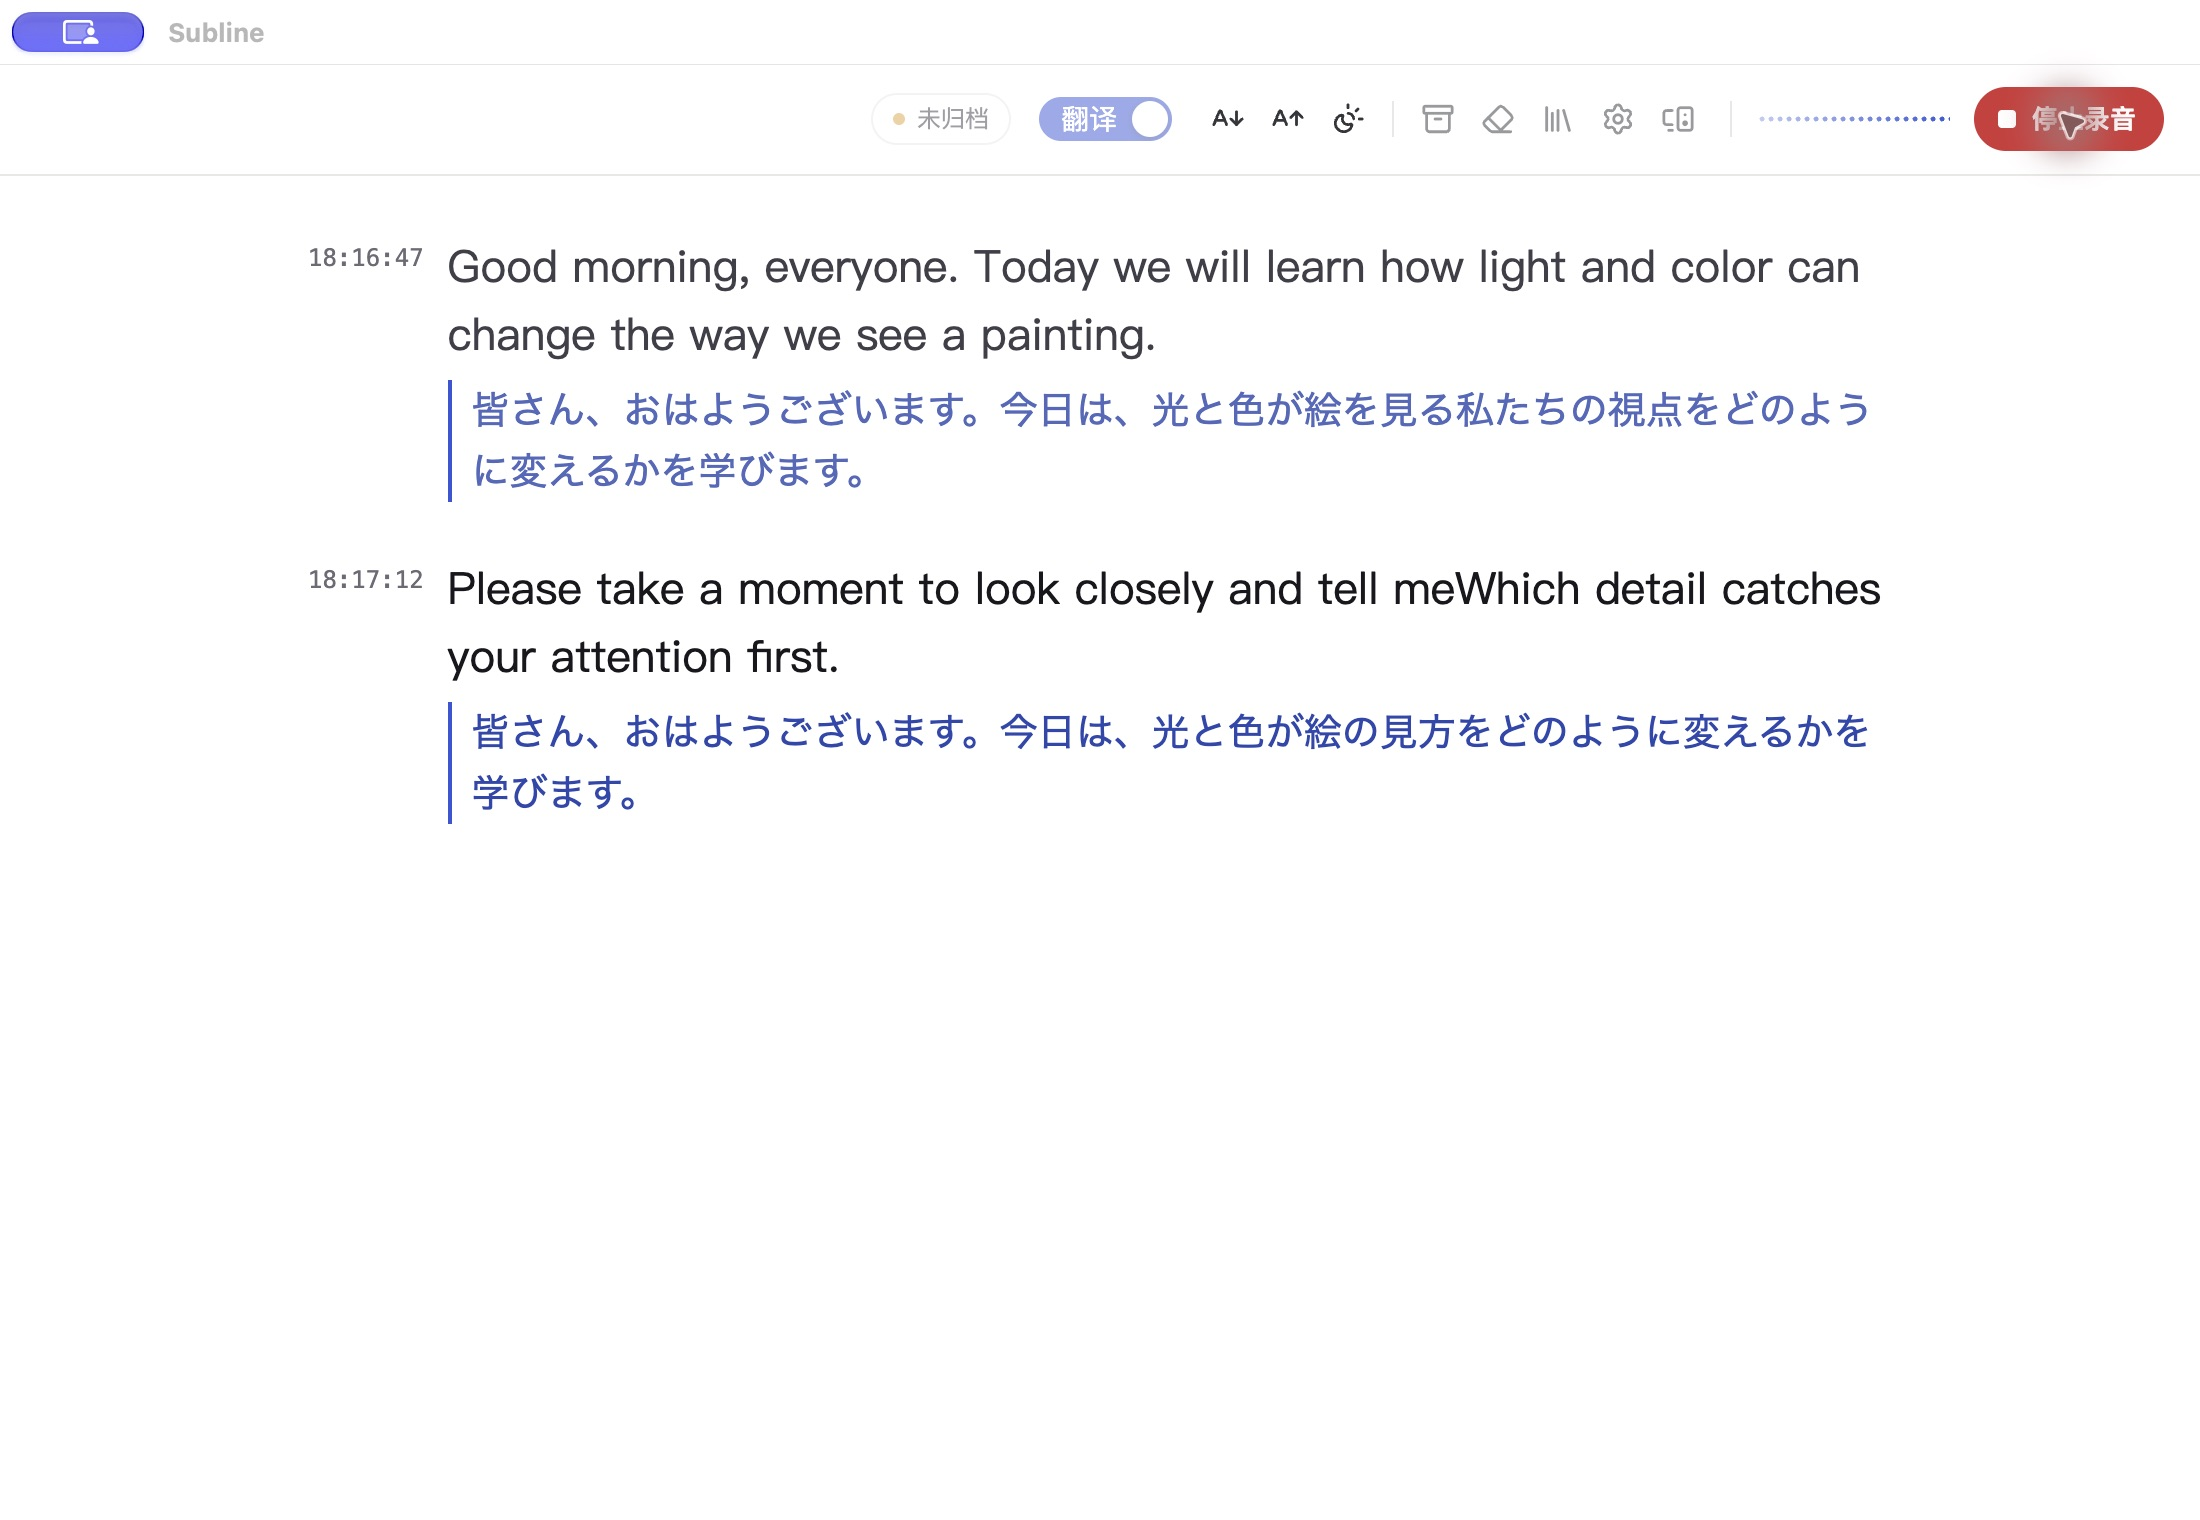
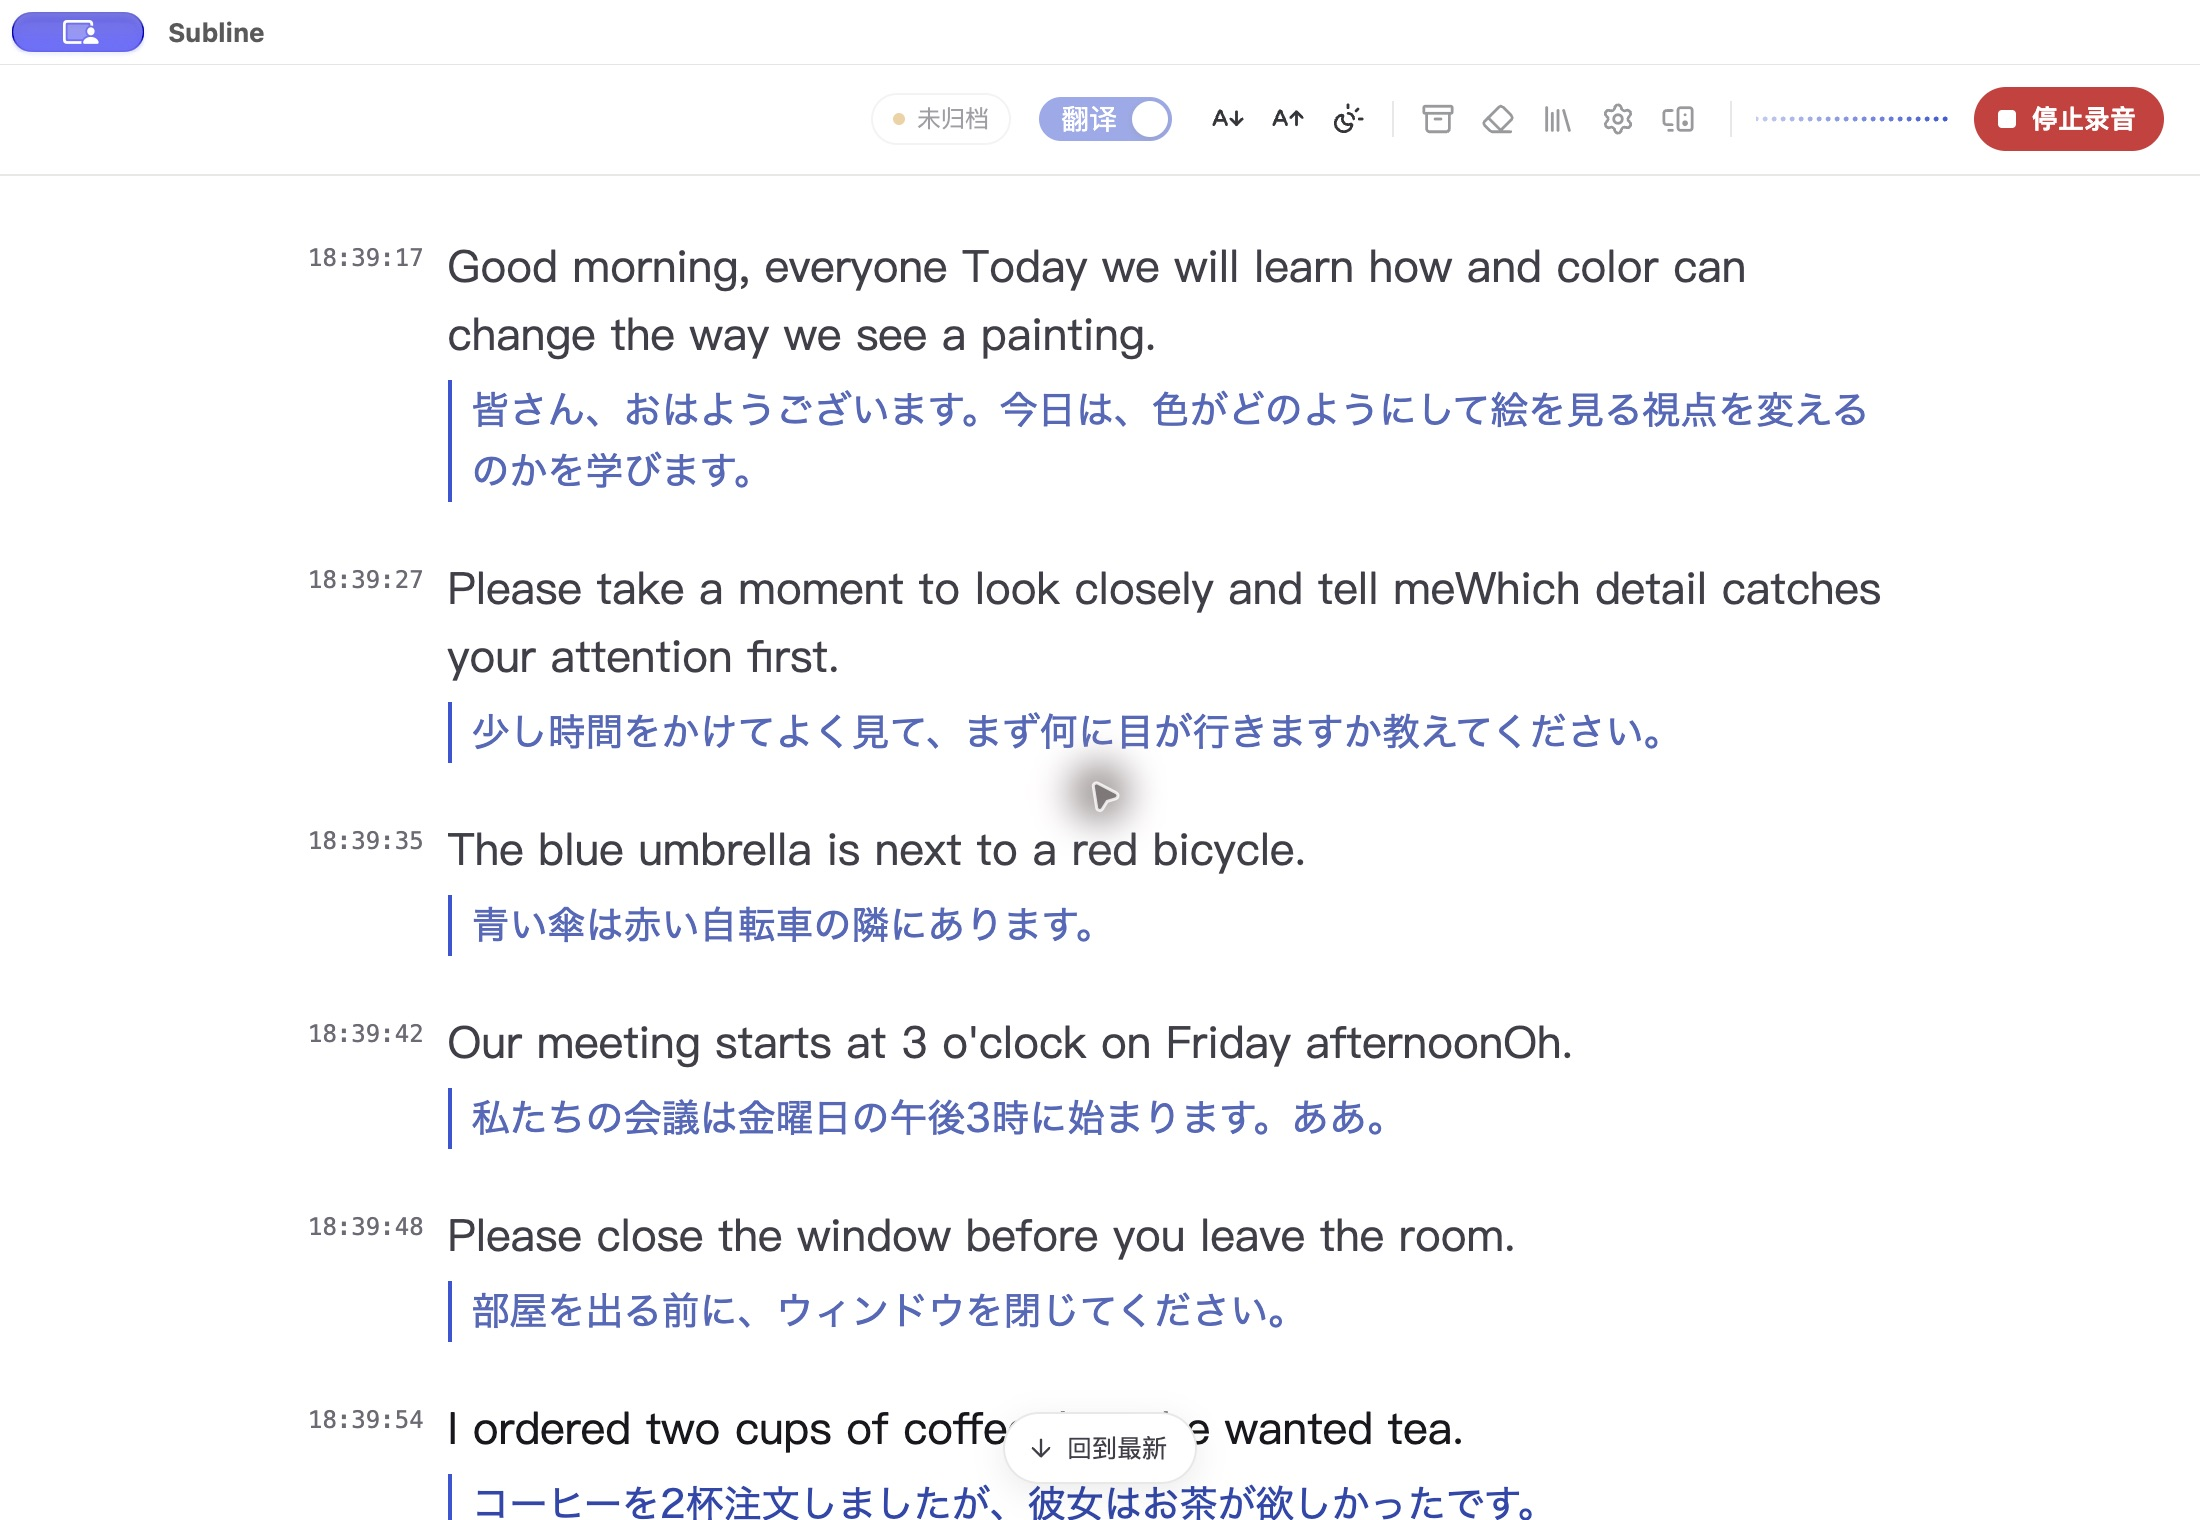
docs: verify consecutive translations in the installed fix

diff --git a/README.md b/README.md
@@ -8,7 +8,7 @@
 
 ![Subline macOS live English captions and Japanese translations](docs/assets/subline-live-beta6.png)
 
-*Live captions in the locally installed beta.6+d5a44a6 acceptance build: synthetic English test speech was captured through system audio and processed by the recognition and translation models. Output is unedited; this is not a benchmark. This run reproduces a known issue: the second translation repeats the preceding context. Beta.6 is not published; the public download below remains beta.5.*
+*Live captions in the locally installed beta.6+61ba50a acceptance build: synthetic English test speech was captured through system audio and processed by the recognition and translation models. Output is unedited; this is not a benchmark. All six segments in this regression run translated their current source; the previous context-repeat case no longer reproduced. Beta.6 is not published; the public download below remains beta.5.*
 
 <details>
 <summary>Settings: model selection, downloads and independent languages</summary>
@@ -26,7 +26,7 @@
 - Continuous caption rows: provisional text is extended, corrected and confirmed in place; translations return to the same row.
 - Stable-prefix / tentative-tail styling, language-specific native Japanese and Simplified Chinese fonts, and a narrower bilingual reading layout.
 - Rule-based Japanese sentence assembly before translation. Local-model sentence judging remains an offline experiment, not the default recording path.
-- Built-in macOS Hy-MT2 7B Metal inference and source-only context, also supported by optional OpenAI-compatible endpoints.
+- Built-in macOS Hy-MT2 7B Metal inference with independent per-segment translation, alongside optional OpenAI-compatible endpoints.
 - macOS translation backpressure: one active request, at most three waiting, and a 15-second waiting deadline. Overloaded or expired translations fail visibly while their transcripts remain available.
 - Separate stable and Internal macOS channels with isolated settings, archives and model caches.
 - Internal archive folders, content-derived editable titles, rename and move, with persistence across restarts. Saving is manual; stopping recording does not automatically archive the session.
@@ -49,7 +49,7 @@ Earlier checks covered clean-profile onboarding, real model downloads, system-au
 
 The older **Classroom Translator 0.2.0-beta.1** and **Subline Internal 0.2.0-beta.2** remain historical builds. Upstream downloads below belong to upstream. Internal and public channels use separate settings, archives and model caches; replacing Subline.app preserves the public channel's existing data.
 
-The optional API translation backend remains available for an existing local server or a user-configured remote service. Local Hy-MT2 keeps the same source-only context, rule-based sentence assembly and translation backpressure. Changing the inference runtime does not guarantee byte-for-byte identical translations.
+The optional API translation backend remains available for an existing local server or a user-configured remote service. Local Hy-MT2 translates only the current segment in a fresh session; rule-based sentence assembly and translation backpressure remain in place. Changing the inference runtime does not guarantee byte-for-byte identical translations.
 
 ## Windows candidate status
 

diff --git a/docs/product/overview.md b/docs/product/overview.md
@@ -15,7 +15,7 @@ Subline 是基于上游开源项目 Realtime Translator 定制、面向中文、
 
 - 各端的语音识别都在当前设备上运行，应用不把音频发送给识别服务。
 - 选择本地翻译时，译文也在当前设备上生成。macOS 新安装默认关闭翻译，选择本地翻译时预选应用内 Hy-MT2 7B（GGUF Q4_K_M），并保留 M2M-100；Web 使用 M2M-100；iOS 使用 Apple Translation。macOS 的 Hy-MT2 不需要 LM Studio 或单独启动 API 服务，推理运行时随应用提供，权重在确认后下载。
-- 选择云端翻译时，需要翻译的已定稿文本段会发送到用户配置的 OpenAI 兼容端点；macOS 的 API 翻译与应用内 Hy-MT2 都会附带最近两段同语言对的原文上下文，每段最多 400 字符。同语言跳过及仅需中文字形归一化的段不发送。端点可以是本机运行的 LM Studio 等兼容服务，此时文本发送到本机地址。在设置中测试连接会发送固定的 `hello` 测试文本。音频始终不发送，端点的数据处理规则由对应服务商决定。
+- 选择云端翻译时，需要翻译的已定稿文本段会发送到用户配置的 OpenAI 兼容端点；macOS 的 API 翻译仍附带最近两段同语言对的原文上下文，每段最多 400 字符；应用内 Hy-MT2 每次只翻译当前段原文，使用独立会话，不附带此前原文或生成的对话历史。同语言跳过及仅需中文字形归一化的段不发送。端点可以是本机运行的 LM Studio 等兼容服务，此时文本发送到本机地址。在设置中测试连接会发送固定的 `hello` 测试文本。音频始终不发送，端点的数据处理规则由对应服务商决定。
 - 应用启动时不自动下载识别或翻译权重。用户确认下载后，应用才从模型源获取文件；Web 的 Silero VAD 是随应用外壳提供的内置例外。
 - 设置、模型和会话归档只保存在当前设备或当前浏览器站点存储中，产品没有跨设备同步。
 - macOS 在系统 `safeStorage` 可用时加密保存云端 API Key；加密不可用时为保证功能会明文落盘。Web 和 iOS 分别将 API Key 随设置保存到 IndexedDB 和 Preferences，应用本身不做额外加密。

diff --git a/docs/product/experience.md b/docs/product/experience.md
@@ -2,7 +2,7 @@
 
 本文描述当前源码中 Subline 共享界面在 macOS、iOS 和 Web 上的已实现行为。单页设置、独立翻译目标语言与字幕时间线已在本机安装的 beta.6 构建中完成短程系统音频试用；beta.6 尚未发布，不代表公开 beta.5 安装包已提供这些改动。下载和发布状态见仓库 README。各端能力与隐私边界见[产品全貌与平台能力](overview.md)。
 
-本机验收使用实际采集的合成测试语音：日语识别／中文翻译的 4 条定稿包含墙钟时间，归档后重开保留时间；中文界面下的英语识别／日语翻译完成 2 条定稿，退出重启后目标设置保留。已检查明暗主题实时字幕，旧归档内容未被修改。这是短程功能检查，不是性能或识别准确度基准。此前日语→中文测试中，1 条译文重复了前两句上下文。后续修复已在 Dev 源码的真实模型回放中完成连续 10 条输入检查（6 条英语→日语、4 条日语→中文），原重复案例不再复现；正式应用安装后的本次修复回归尚未验收。
+本机验收使用实际采集的合成测试语音。此前已核对日语识别／中文翻译 4 条定稿的墙钟与归档重开、中文界面下独立日语目标的重启保留、明暗主题实时字幕及旧归档内容未变。当前安装的 beta.6+61ba50a 已完成连续 6 条英语→日语系统音频回归（18:39:17 至 18:39:54），译文均对应当前原文，原重复上下文用例未再复现；Dev 真实模型回放另检查了 10 条输入（6 条英语→日语、4 条日语→中文）。这些是限定样本的短程功能检查，不是性能或识别准确度基准，也不保证所有输入均无误。
 
 ## 首次启动与母语
 

diff --git a/README.zh-CN.md b/README.zh-CN.md
@@ -10,7 +10,7 @@
 
 ![Subline macOS 实时英语字幕与日语译文](docs/assets/subline-live-beta6.png)
 
-*本机已安装的 beta.6+d5a44a6 验收构建：实际采集英语合成测试语音的系统音频，并由识别与翻译模型生成字幕。输出未经改写，不作为性能测量。本次复现了已知问题：第二段译文重复了上一段内容。Beta.6 尚未发布，下方公开下载仍为 beta.5。*
+*本机已安装的 beta.6+61ba50a 验收构建：实际采集英语合成测试语音的系统音频，并由识别与翻译模型生成字幕。输出未经改写，不作为性能测量。本次连续 6 条定稿均翻译当前原文，原先重复上一段的用例未再复现。Beta.6 尚未发布，下方公开下载仍为 beta.5。*
 
 <details>
 <summary>设置：模型选择、下载管理与独立目标语言</summary>
@@ -27,7 +27,7 @@
 
 - SenseVoice 本地识别 + 应用内 Hy-MT2 7B Q4_K_M Metal 翻译。模型下载后无需 LM Studio、API Key 或另启模型服务。
 - 临时原文在原位续写与确认，译文回填对应行；上翻回看保持位置，点击“回到最新”恢复跟随。
-- 日语使用规则合句与有限原文上下文；模型判断切句仍只用于离线实验。
+- 日语使用规则合句；本地 Hy-MT2 每段独立翻译，macOS API 路径保留有限原文上下文。模型判断切句仍只用于离线实验。
 - Internal 支持单层文件夹、内容提取标题、改名和移动，保存后重启保留。停止录音不会自动归档。
 - Subline 与 Subline Internal 的设置、模型和归档分离，改名后沿用各自数据目录。
 
